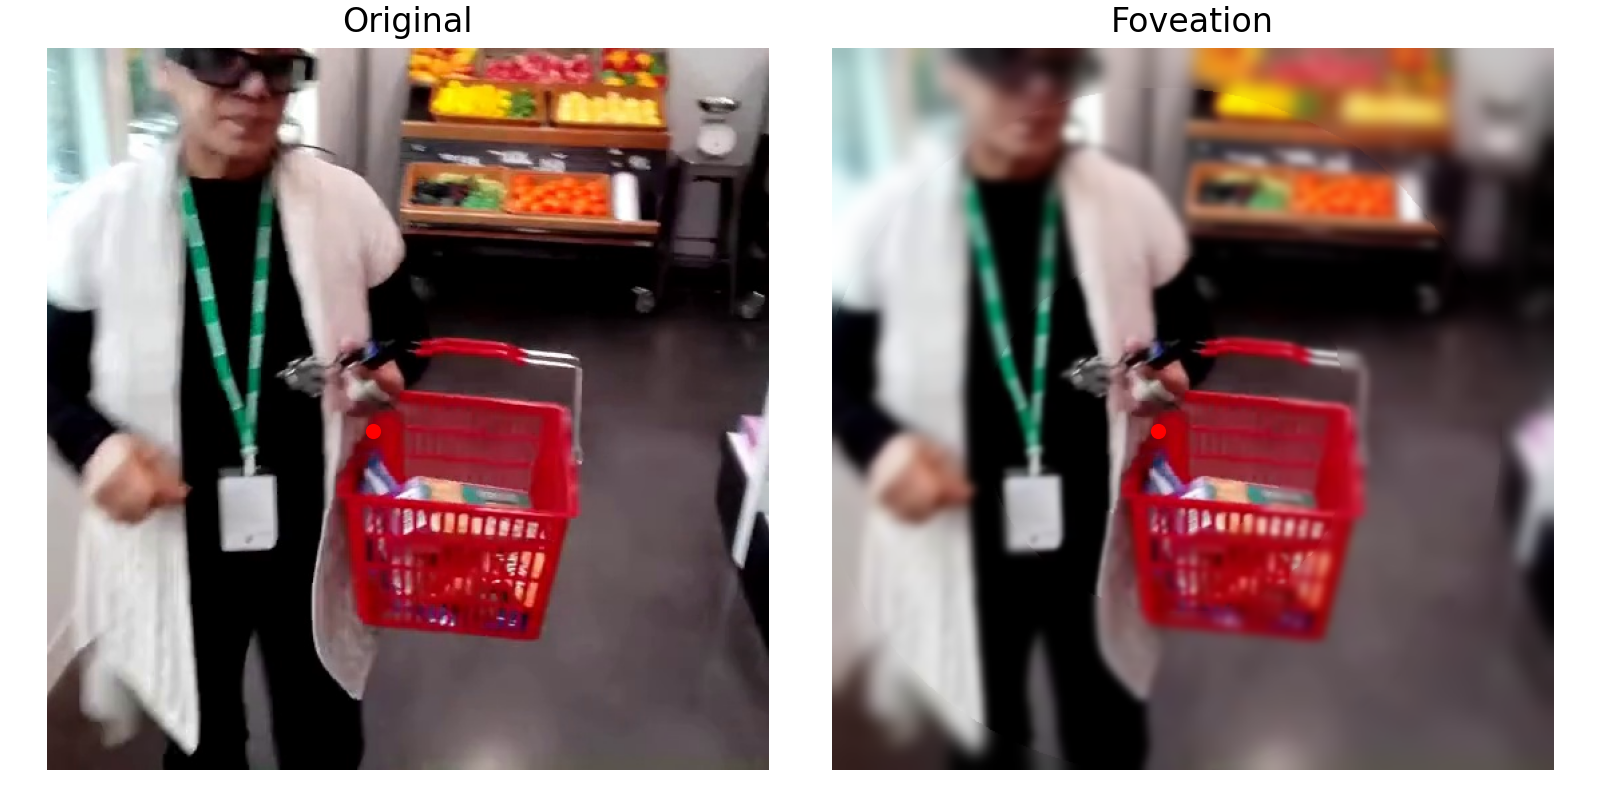
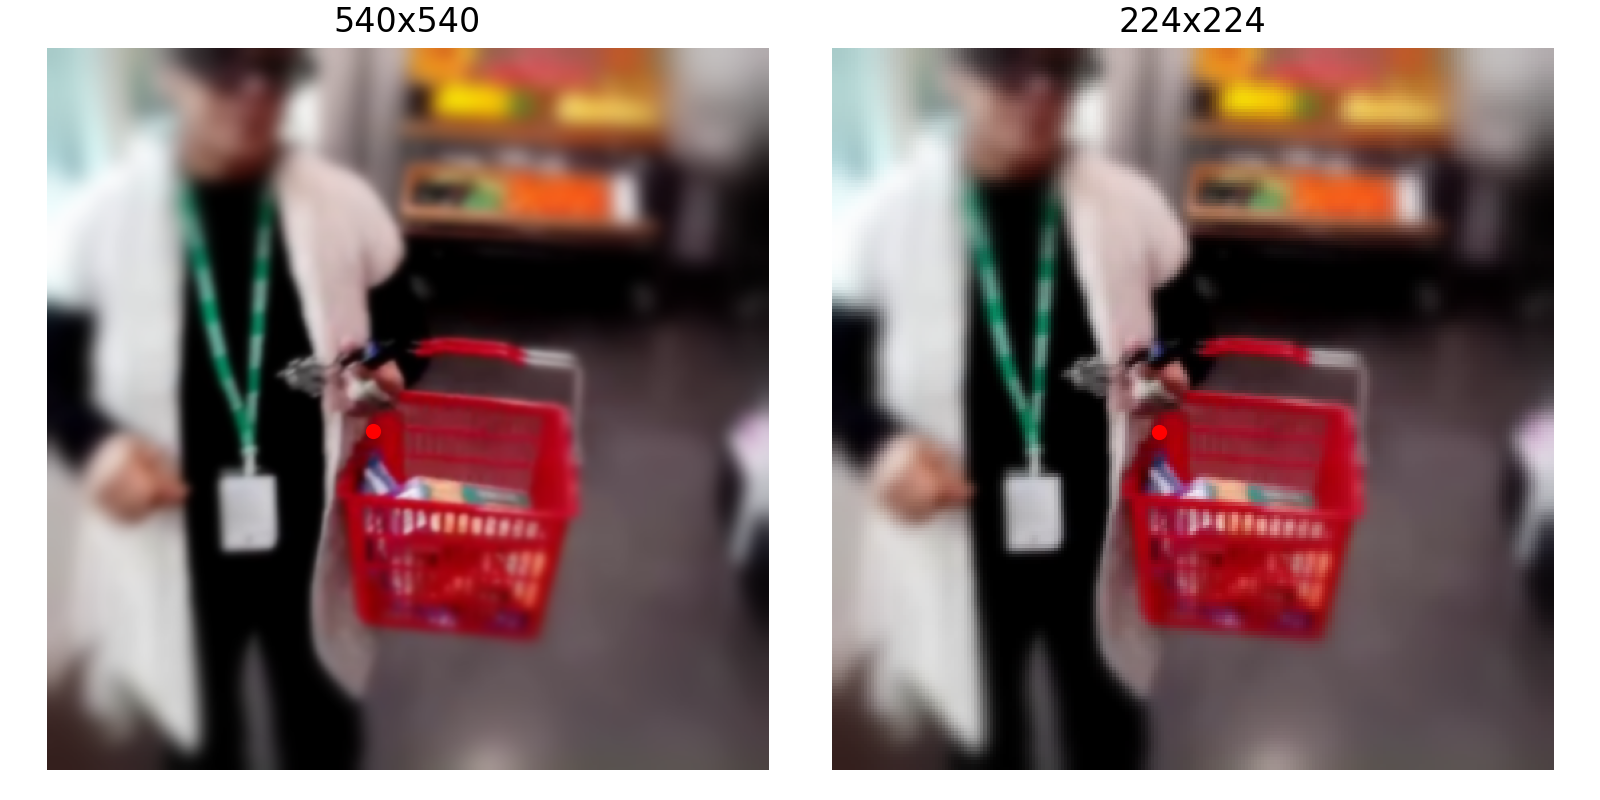
worked on radial blur to adapt to different input resolutions.

diff --git a/foveation/viz.py b/foveation/viz.py
@@ -7,17 +7,21 @@ import cv2
 import matplotlib.pyplot as plt
 from PIL import Image
 from pathlib import Path
+from types import SimpleNamespace
 
 from foveation.methods.gaze_crop import GazeCenteredCrop
 from foveation.methods.radial_blur import RadialBlurFoveation
 from foveation.methods.fcg import FovealCartesianGeometry
+from foveation.methods.fcg_saliency import FovealCartesianGeometryWithSaliency
 from foveation.methods.fcg_paper import FovealCartesianGeometryPaper
+
 
 
 def main():
     ANNOT_PATH = "/home/data/elias/Ego4dDivSubset/annot.parquet"
     H5_PATH = "/home/data/elias/Ego4dDivSubset/ego4d_diverse_subset.h5"
 
+    #i = 99_002 (for 2 saliency "blobs")
     i = 100_003
 
     df = pd.read_parquet(ANNOT_PATH)
@@ -33,9 +37,12 @@ def main():
     annot = df.iloc[i]
     saliency = saliency.astype(np.float32)
     
+    # also test: fcg_paper, fcg_saliency, cortal_magnification?
+     
     # methods: crop, blur, fcg
-    viz_fov(annot, frame, saliency, "fcg")
+    viz_fov(annot, frame, saliency, "blur")
     
+    # viz_relative_sigmas(annot, frame, saliency)
     # viz_blur_heatmaps(annot, frame, saliency)
     # viz_saliency(annot, frame, saliency)
     # viz_fcg_rings_paper()
@@ -90,17 +97,72 @@ def viz_fov(annot, frame, saliency, method):
     plt.close()
 
     print(f"Saved {file_name}")  
+    
+    
+def viz_relative_sigmas(annot, frame, saliency):
+    
+    method = "blur"
+    
+    img_np = np.array(frame)
+    H, W, _ = img_np.shape
+    x_g, y_g = annot.gaze_loc_x, annot.gaze_loc_y
+
+    s_big = cv2.resize(saliency, (W, H), interpolation=cv2.INTER_LINEAR)
+    s_big = (s_big - s_big.min()) / (s_big.max() - s_big.min() + 1e-6)
+    big_out = RadialBlurFoveation()(frame, annot, s_big)
+    
+    scale_x = 224 / W
+    scale_y = 224 / H
+
+    small_annot = SimpleNamespace(
+        gaze_loc_x = x_g * scale_x,
+        gaze_loc_y = y_g * scale_y
+    )
+    small_img_np = np.array(frame.resize((224, 224), resample=Image.BILINEAR))
+    s_small = cv2.resize(saliency, (224, 224), interpolation=cv2.INTER_LINEAR)
+    s_small = (s_small - s_small.min()) / (s_small.max() - s_small.min() + 1e-6)
+    small_out = RadialBlurFoveation()(small_img_np, small_annot, s_small)
+    # small_out = small_out.resize((H, W), resample=Image.BILINEAR)
+    
+    
+
+    plt.figure(figsize=(8, 4))
+    plt.subplot(1, 2, 1)
+    plt.title("540x540")
+    plt.imshow(big_out)
+    plt.scatter(x_g, y_g, c="red", s=20)
+    plt.axis("off")
+
+    plt.subplot(1, 2, 2)
+    plt.title("224x224")
+    plt.imshow(small_out)
+    # plt.scatter(x_g, y_g, c="red", s=20)
+    plt.scatter(small_annot.gaze_loc_x, small_annot.gaze_loc_y, c="red", s=20)
+    plt.axis("off")
+
+    plt.tight_layout()
+
+    file_name = f"ego4d_{method}_example.png"
+    base_dir = Path(__file__).resolve().parent
+    out_path = base_dir / "plots" / method / file_name
+
+    out_path.parent.mkdir(parents=True, exist_ok=True)
+    plt.savefig(out_path, dpi=200)
+    plt.close()
+
+    print(f"Saved {file_name}")  
 
 
 def viz_blur_heatmaps(annot, frame, saliency):
-    radii = [32, 64, 128, 256]
-    sigmas = [0.0, 0.5, 1.5, 3.0, 6.0]
-    saliency_alpha = 1.0
-    transition_width = 32
+    radii_frac = [0.1, 0.2, 0.4, 0.8]
+    sigma_base = 0.5 
+    sigma_growth = 2
+    saliency_alpha = 1.0 
+    transition_frac = 0.1
 
     img_np = np.array(frame)
     H, W, _ = img_np.shape
-
+        
     x_g, y_g = annot.gaze_loc_x, annot.gaze_loc_y
 
     # --- saliency ---
@@ -115,7 +177,12 @@ def viz_blur_heatmaps(annot, frame, saliency):
 
     # --- distances ---
     R = np.sqrt((X - x_g)**2 + (Y - y_g)**2)
+    R_max = np.max(R)
     R_eff = R / (1.0 + saliency_alpha * S)
+    
+    radii = [f * R_max for f in radii_frac]
+    transition_width = transition_frac * R_max
+    sigmas = [sigma_base * (sigma_growth ** i) for i in range(len(radii_frac)+1)]
 
     # --- ring centers ---
     ring_centers = []

diff --git a/foveation/methods/radial_blur.py b/foveation/methods/radial_blur.py
@@ -7,22 +7,20 @@ from foveation.methods.base import Foveation
 
 
 class RadialBlurFoveation(Foveation):
-    def __init__(self, radii=[32, 64, 128, 256], sigmas=[0.0, 0.5, 1.5, 3.0, 6.0], saliency_alpha=1.0, transition_width=32):
+    def __init__(self, radii_frac=[0.1, 0.2, 0.4, 0.8], sigma_base_frac=0.0015, sigma_growth=2, saliency_alpha=1.0, transition_frac=0.1):
+        # sigma_base_frac was chosen to result in a base_sigma of ~0.8 for an image size of 540x540
         
-        assert len(sigmas) == len(radii) + 1, (
-            f"Got {len(sigmas)} sigmas for {len(radii)+1} rings."
-        )
-        
-        self.radii = radii
-        self.sigmas = sigmas
+        self.radii_frac = radii_frac
+        self.sigma_base_frac = sigma_base_frac
+        self.sigma_growth = sigma_growth
         self.saliency_alpha = saliency_alpha
-        self.transition_width = transition_width
+        self.transition_frac = transition_frac
 
     def __call__(self, img: Image.Image, annot: pd.Series, saliency: np.ndarray) -> Image.Image:
         
         img_np = np.array(img)
         H, W, _ = img_np.shape
-
+        
         x_g, y_g = annot.gaze_loc_x, annot.gaze_loc_y
         
         S = cv2.resize(saliency, (W, H), interpolation=cv2.INTER_LINEAR)
@@ -35,10 +33,19 @@ class RadialBlurFoveation(Foveation):
         X, Y = np.meshgrid(xs, ys)
 
         R = np.sqrt((X - x_g)**2 + (Y - y_g)**2)
+        R_max = np.max(R)
         R_eff = R / (1.0 + self.saliency_alpha * S)
+        
+        radii = [f * R_max for f in self.radii_frac]
+        transition_width = self.transition_frac * R_max
+        sigma_base = self.sigma_base_frac * min(H, W)
+        sigmas = [
+            sigma_base * (self.sigma_growth ** i)
+            for i in range(len(self.radii_frac) + 1)
+        ]
 
         blurred_imgs = []
-        for sigma in self.sigmas:
+        for sigma in sigmas:
             if sigma == 0:
                 blurred_imgs.append(img_np)
             else:
@@ -46,14 +53,14 @@ class RadialBlurFoveation(Foveation):
 
         ring_centers = []
         prev = 0.0
-        for r in self.radii:
+        for r in radii:
             ring_centers.append(0.5 * (prev + r))
             prev = r
-        ring_centers.append(prev + self.transition_width)
+        ring_centers.append(prev + transition_width)
         
         weights = []
         for c in ring_centers:
-            w = np.exp(-0.5 * ((R_eff - c) / self.transition_width) ** 2)
+            w = np.exp(-0.5 * ((R_eff - c) / transition_width) ** 2)
             weights.append(w)
         weights = np.stack(weights, axis=0)
         weights /= np.sum(weights, axis=0, keepdims=True) + 1e-6

diff --git a/foveation/methods/fcg_saliency.py b/foveation/methods/fcg_saliency.py
@@ -5,12 +5,13 @@ import pandas as pd
 from foveation.methods.base import Foveation
         
         
-class FovealCartesianGeometry(Foveation):
-    def __init__(self, p0=64, alpha=0.5):
+class FovealCartesianGeometryWithSaliency(Foveation):
+    def __init__(self, p0=64, alpha=0.5, beta=0.0):
         self.p0 = p0
         self.alpha = alpha
+        self.beta = beta
 
-    def inverse_map(self, xp, yp, x0, y0, cx, cy):
+    def inverse_map(self, xp, yp, x0, y0, cx, cy, saliency_map):
         dx = xp - cx
         dy = yp - cy
 
@@ -19,7 +20,14 @@ class FovealCartesianGeometry(Foveation):
         if p <= self.p0:
             s = 1.0
         else:
-            s = (self.p0 / p) ** self.alpha
+            # only approximation of salient region-value
+            xs = int(np.clip(x0 + dx, 0, saliency_map.shape[1] - 1))
+            ys = int(np.clip(y0 + dy, 0, saliency_map.shape[0] - 1))
+
+            S_val = saliency_map[ys, xs]
+
+            alpha_eff = self.alpha / (1.0 + self.beta * S_val)
+            s = (self.p0 / p) ** alpha_eff
 
         x = int(dx / s + x0)
         y = int(dy / s + y0)
@@ -30,21 +38,20 @@ class FovealCartesianGeometry(Foveation):
         img_np = np.array(img)
         H, W, C = img_np.shape
 
-        # testing:
-        # x0 = W // 2
-        # y0 = H // 2
+        # normalize saliency just to be safe
+        S = saliency.astype(np.float32)
+        S = (S - S.min()) / (S.max() - S.min() + 1e-6)
+
         x0, y0 = annot.gaze_loc_x, annot.gaze_loc_y
 
-        
-        out_size = min(H, W) # might not work?
-        
+        out_size = min(H, W)
         cx = cy = out_size // 2
         out = np.zeros((out_size, out_size, C), dtype=img_np.dtype)
 
         for yp in range(out_size):
             for xp in range(out_size):
                 x, y = self.inverse_map(
-                    xp, yp, x0, y0, cx, cy
+                    xp, yp, x0, y0, cx, cy, S
                 )
                 if 0 <= x < W and 0 <= y < H:
                     out[yp, xp] = img_np[y, x]
